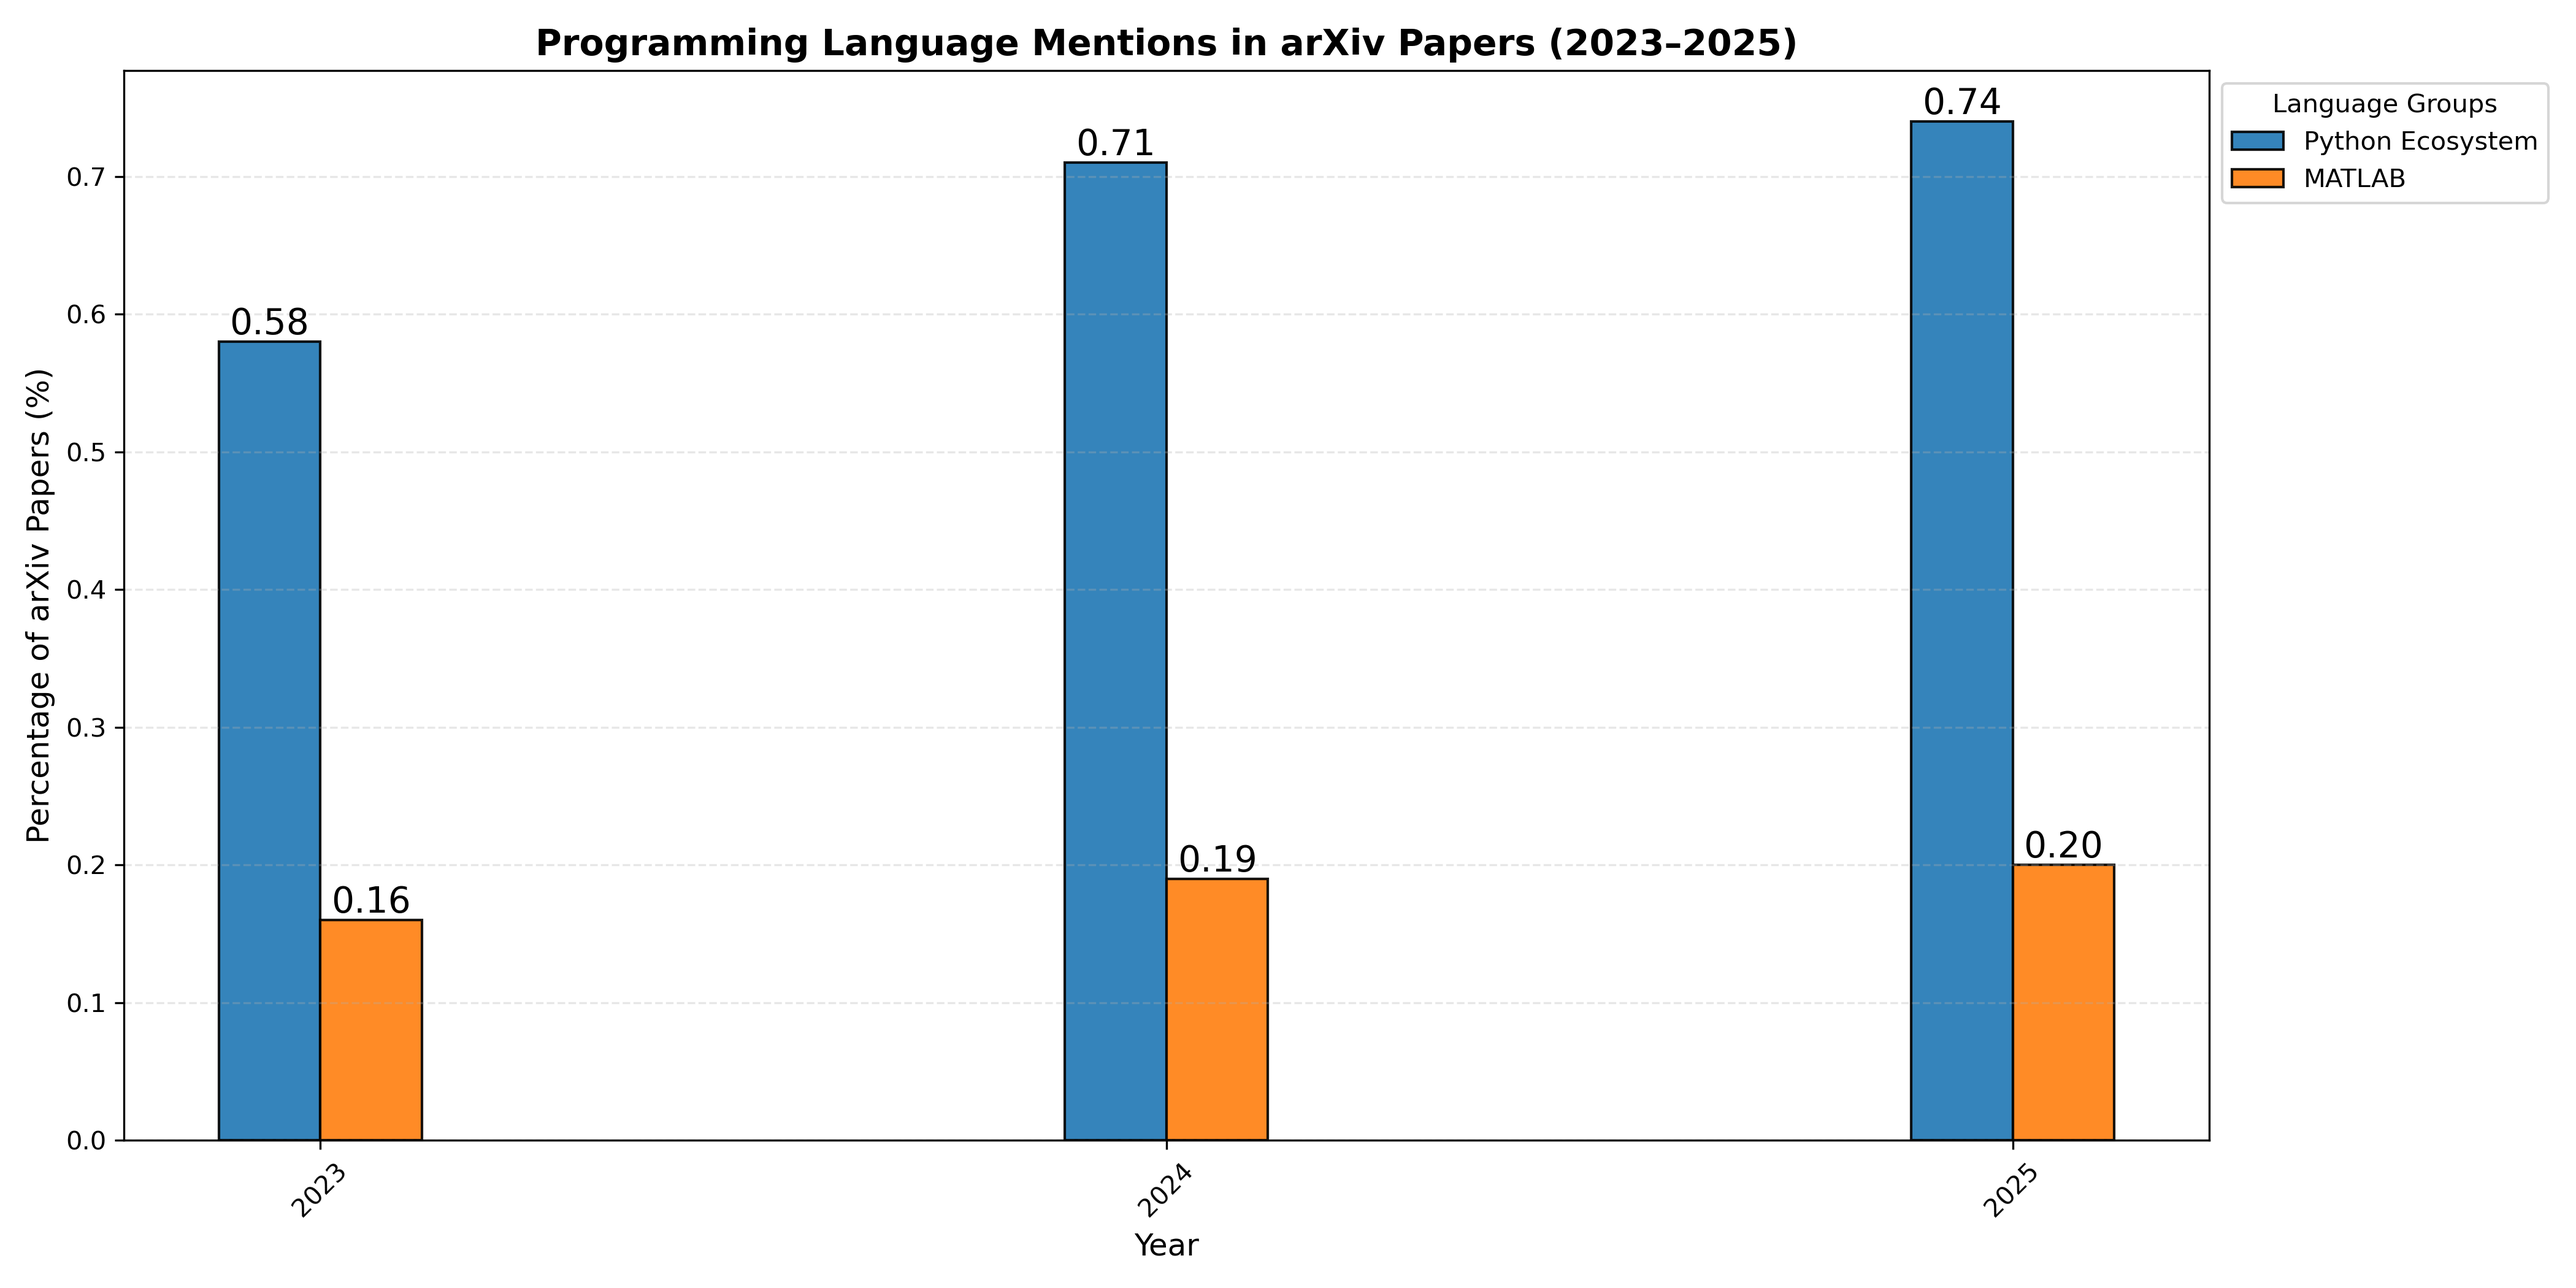
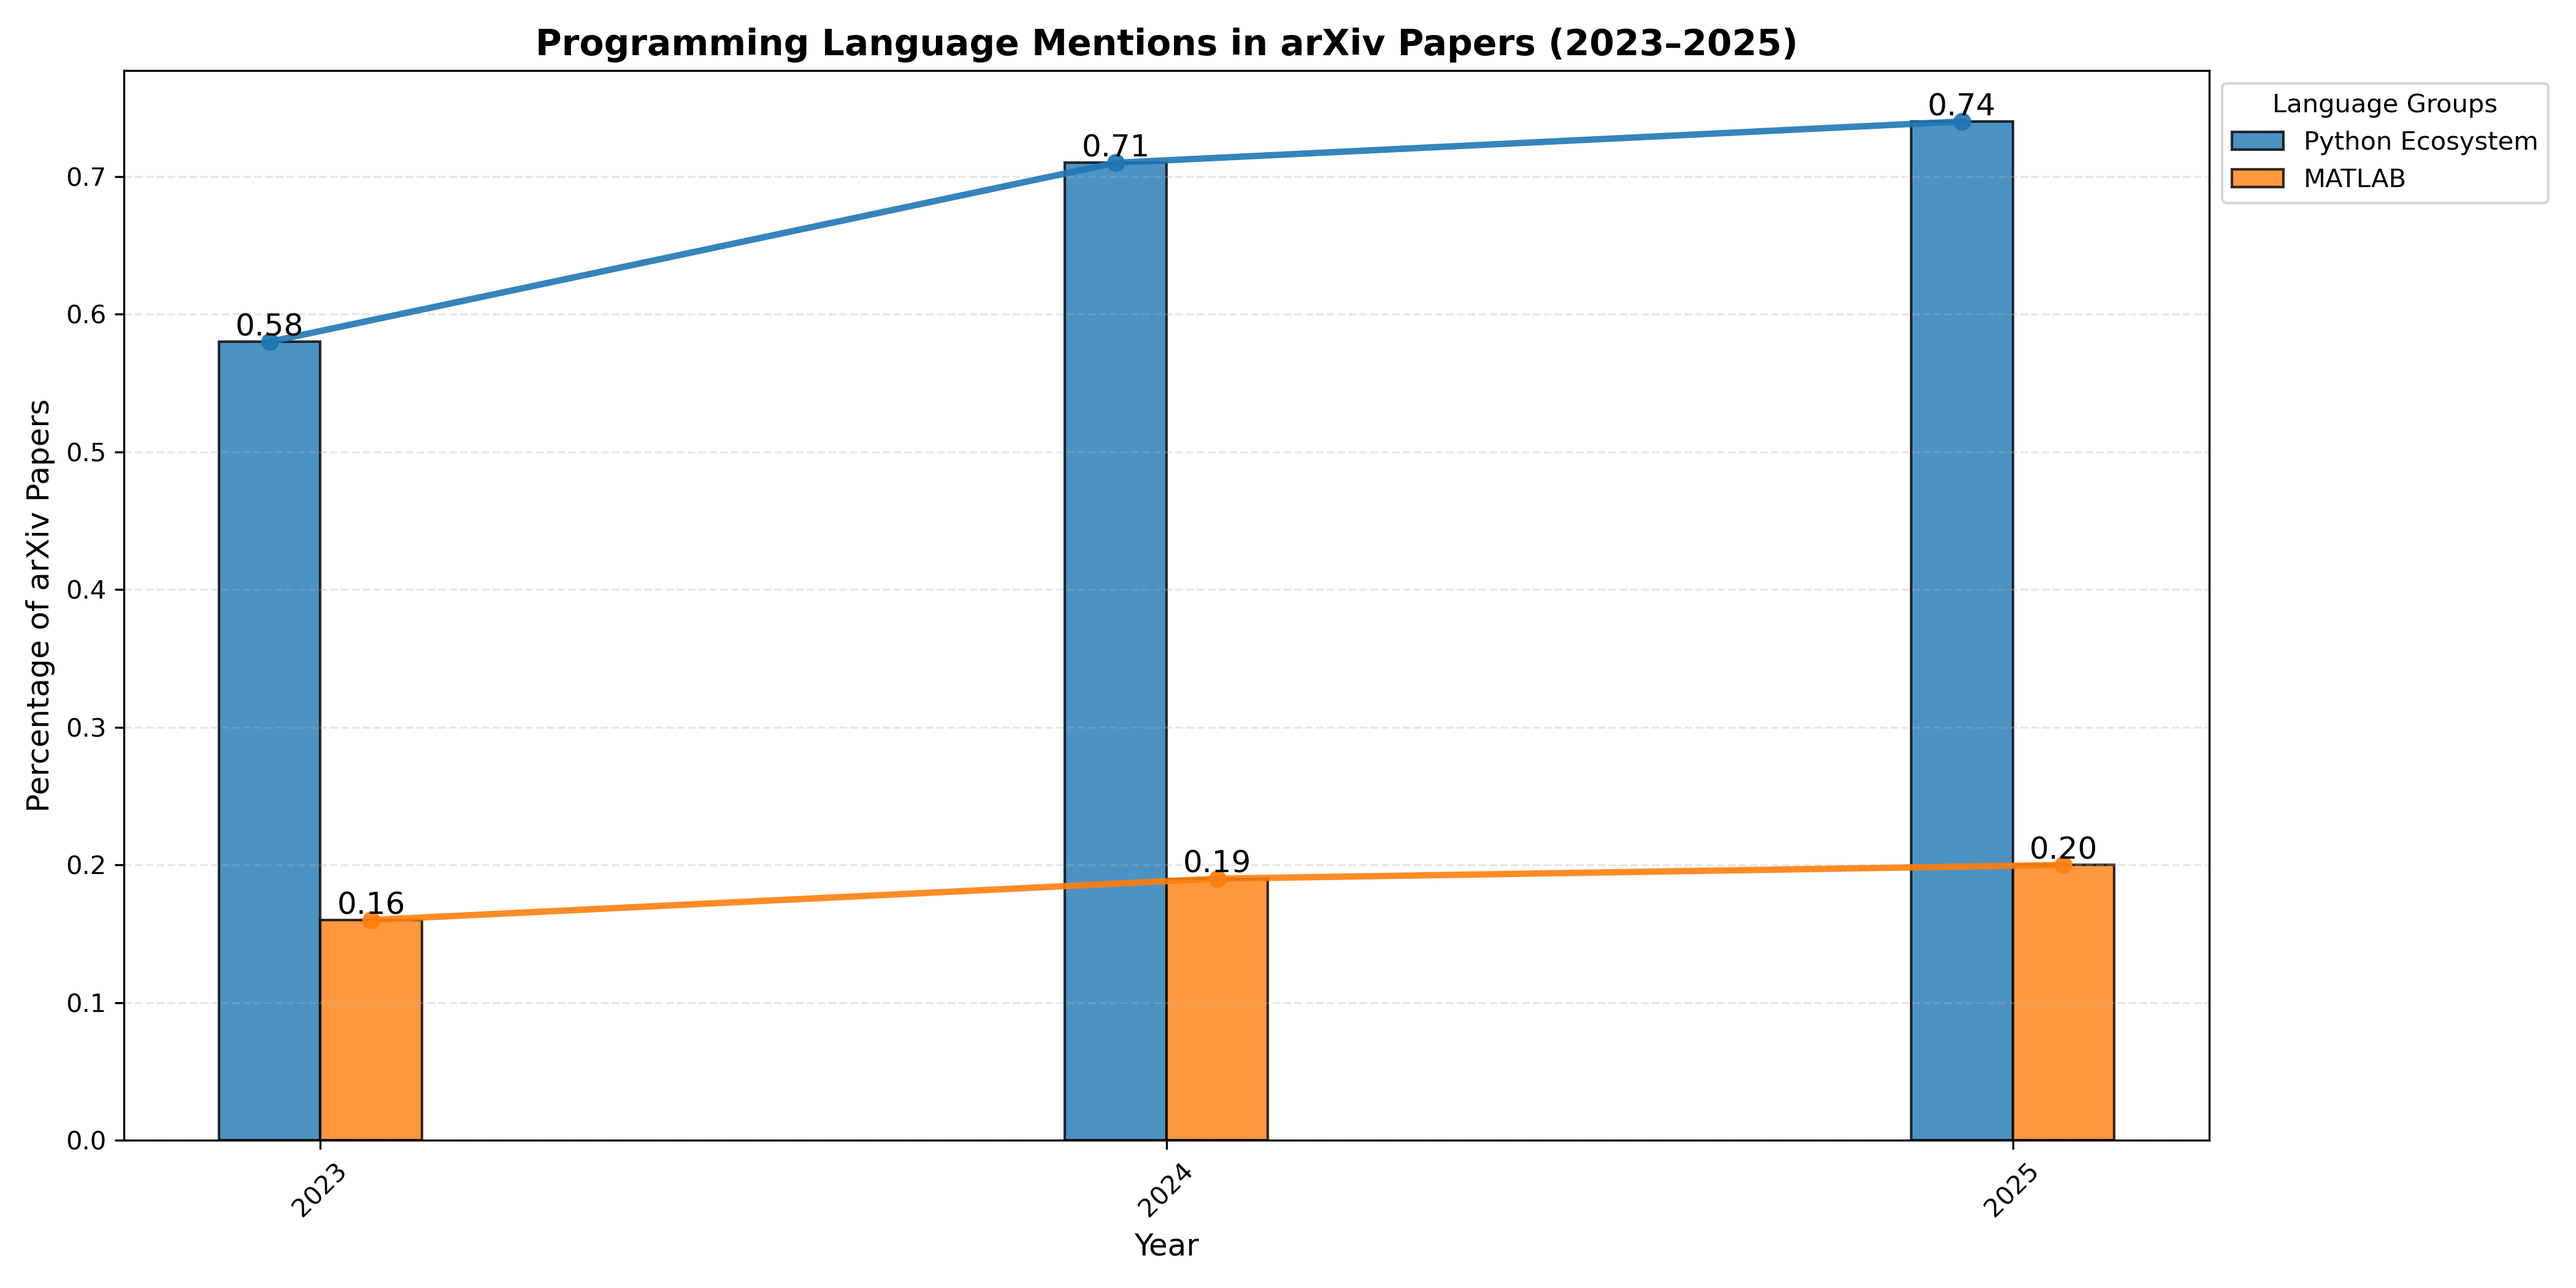
update arxive search

diff --git a/P5/08-Advanced_Traffic_TA_Class/serach_arxive.py b/P5/08-Advanced_Traffic_TA_Class/serach_arxive.py
@@ -166,7 +166,7 @@ class SearchArxivOAI:
         # --- Formatting ---
         plt.xlabel("Year", fontsize=12)
         plt.ylabel(
-            "Percentage of arXiv Papers (%)" if name != "counts" else "Number of Papers",
+            "Percentage of arXiv Papers" if name != "counts" else "Number of Papers",
             fontsize=12
         )
         plt.title(
